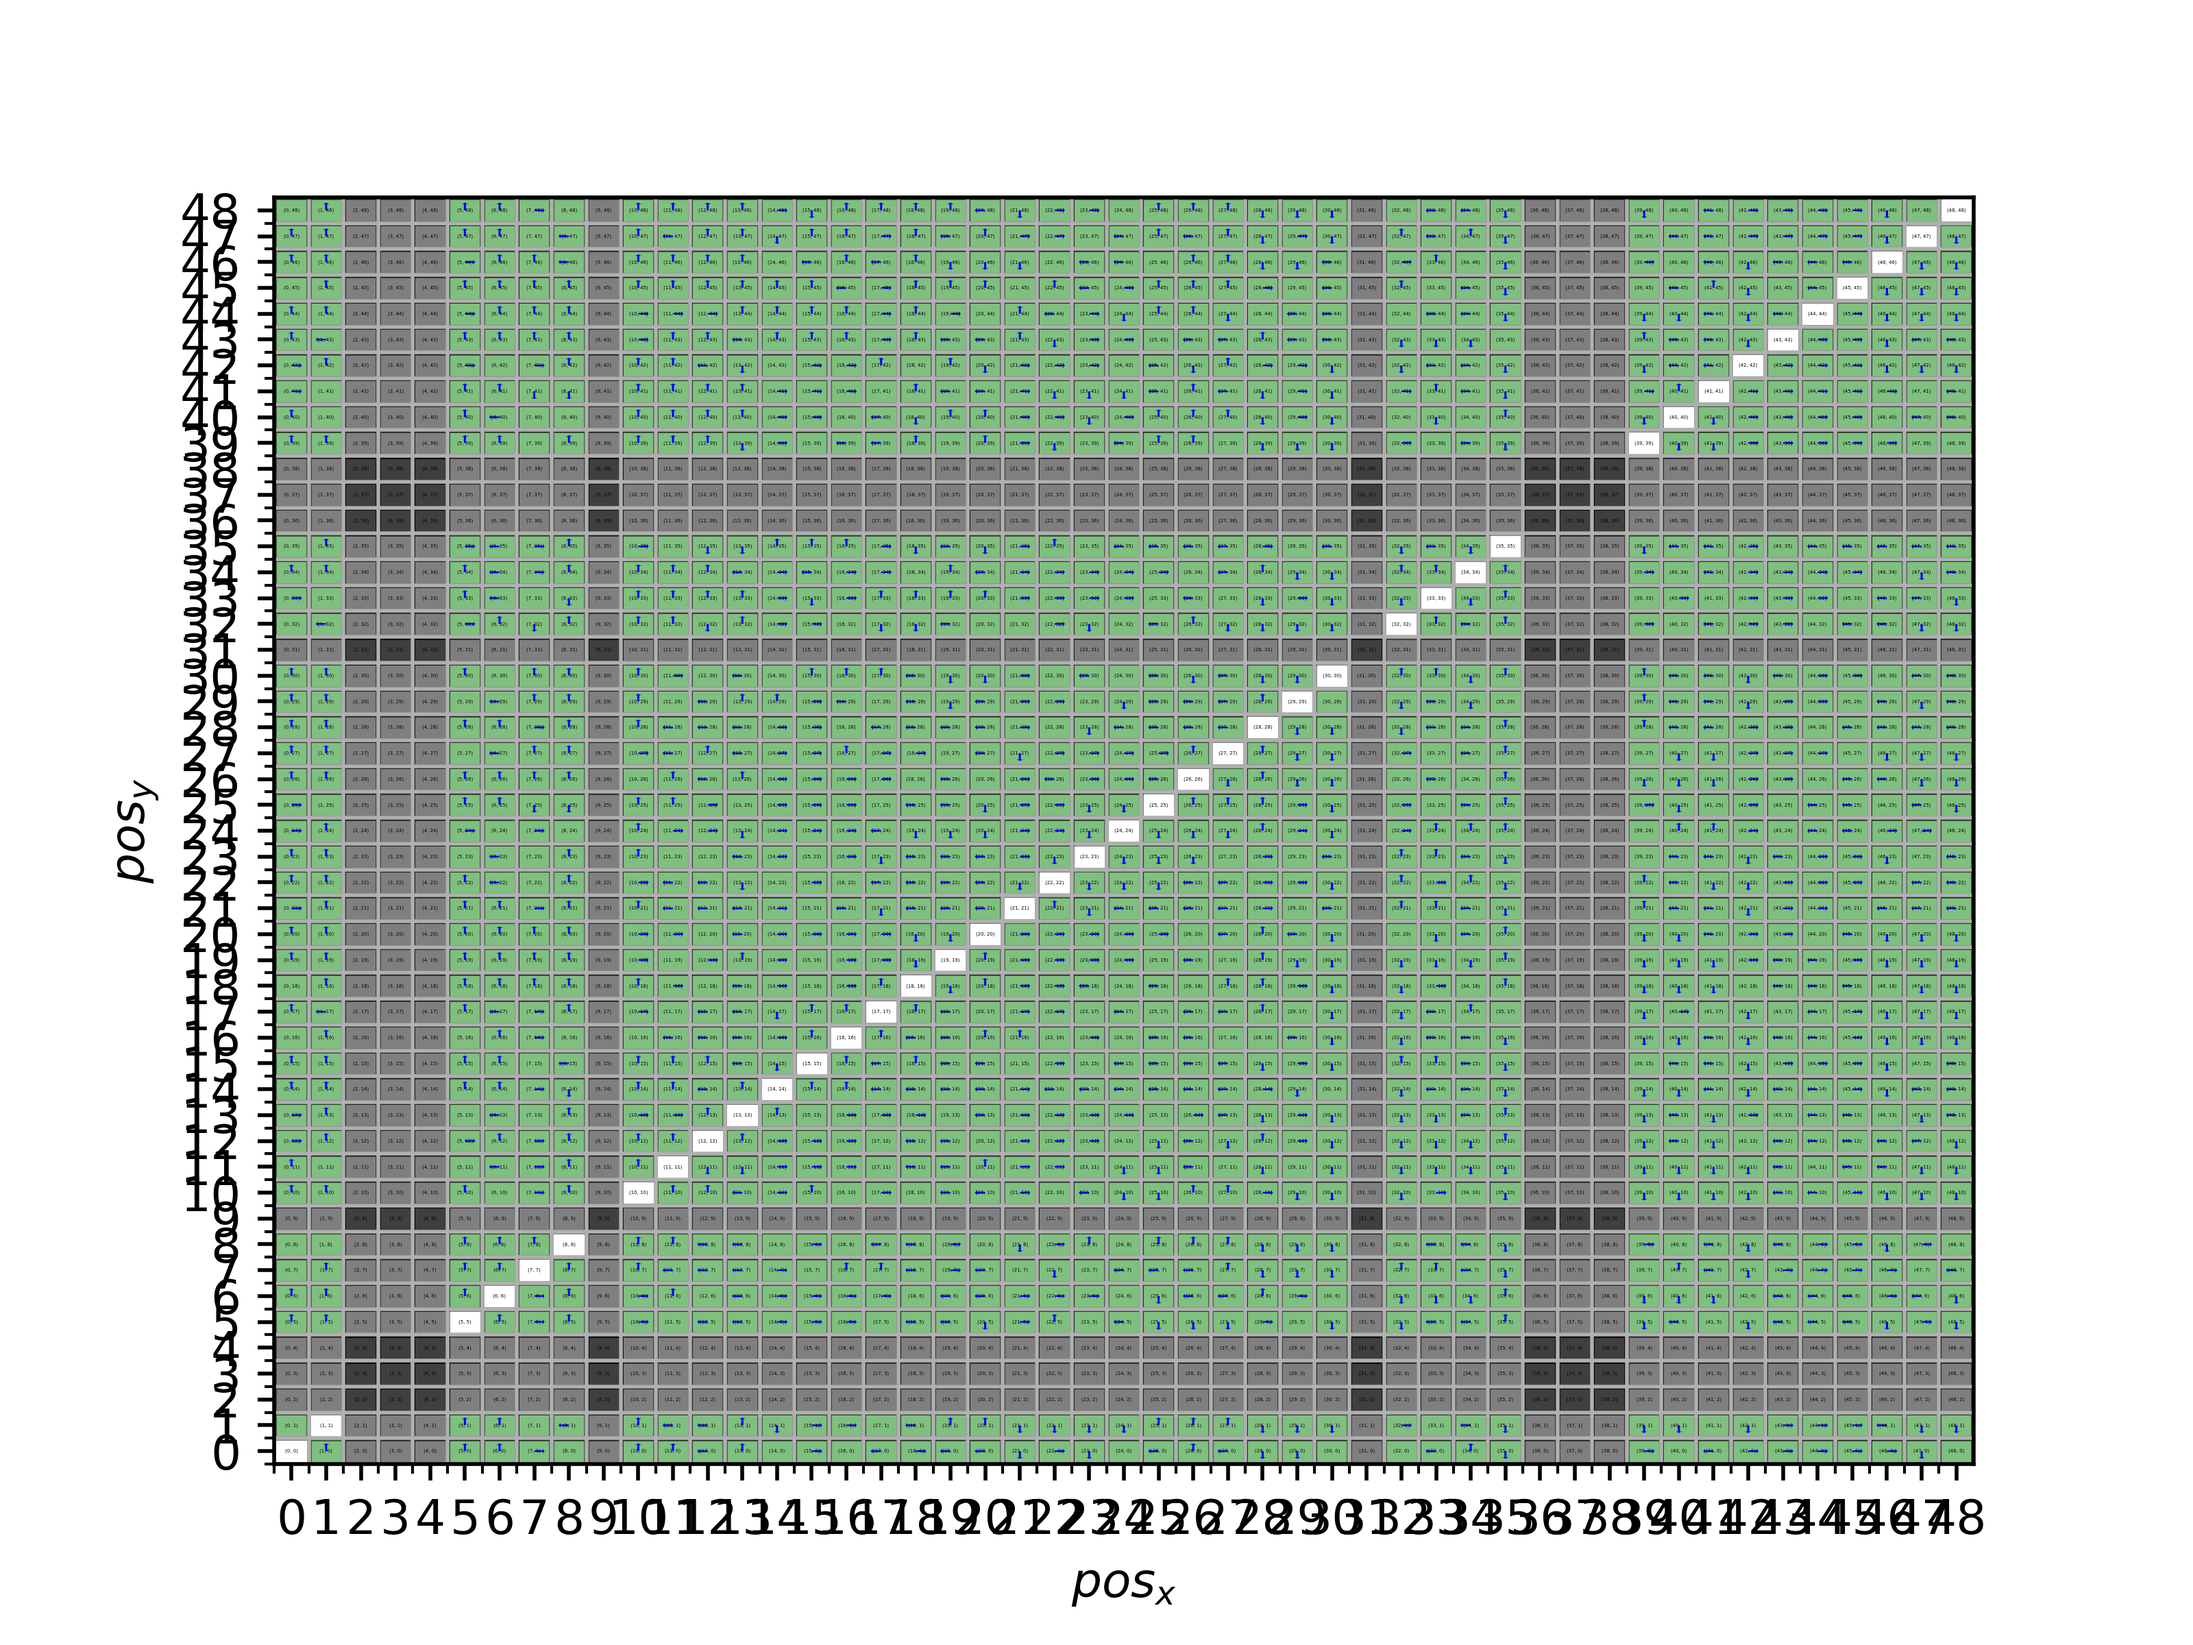
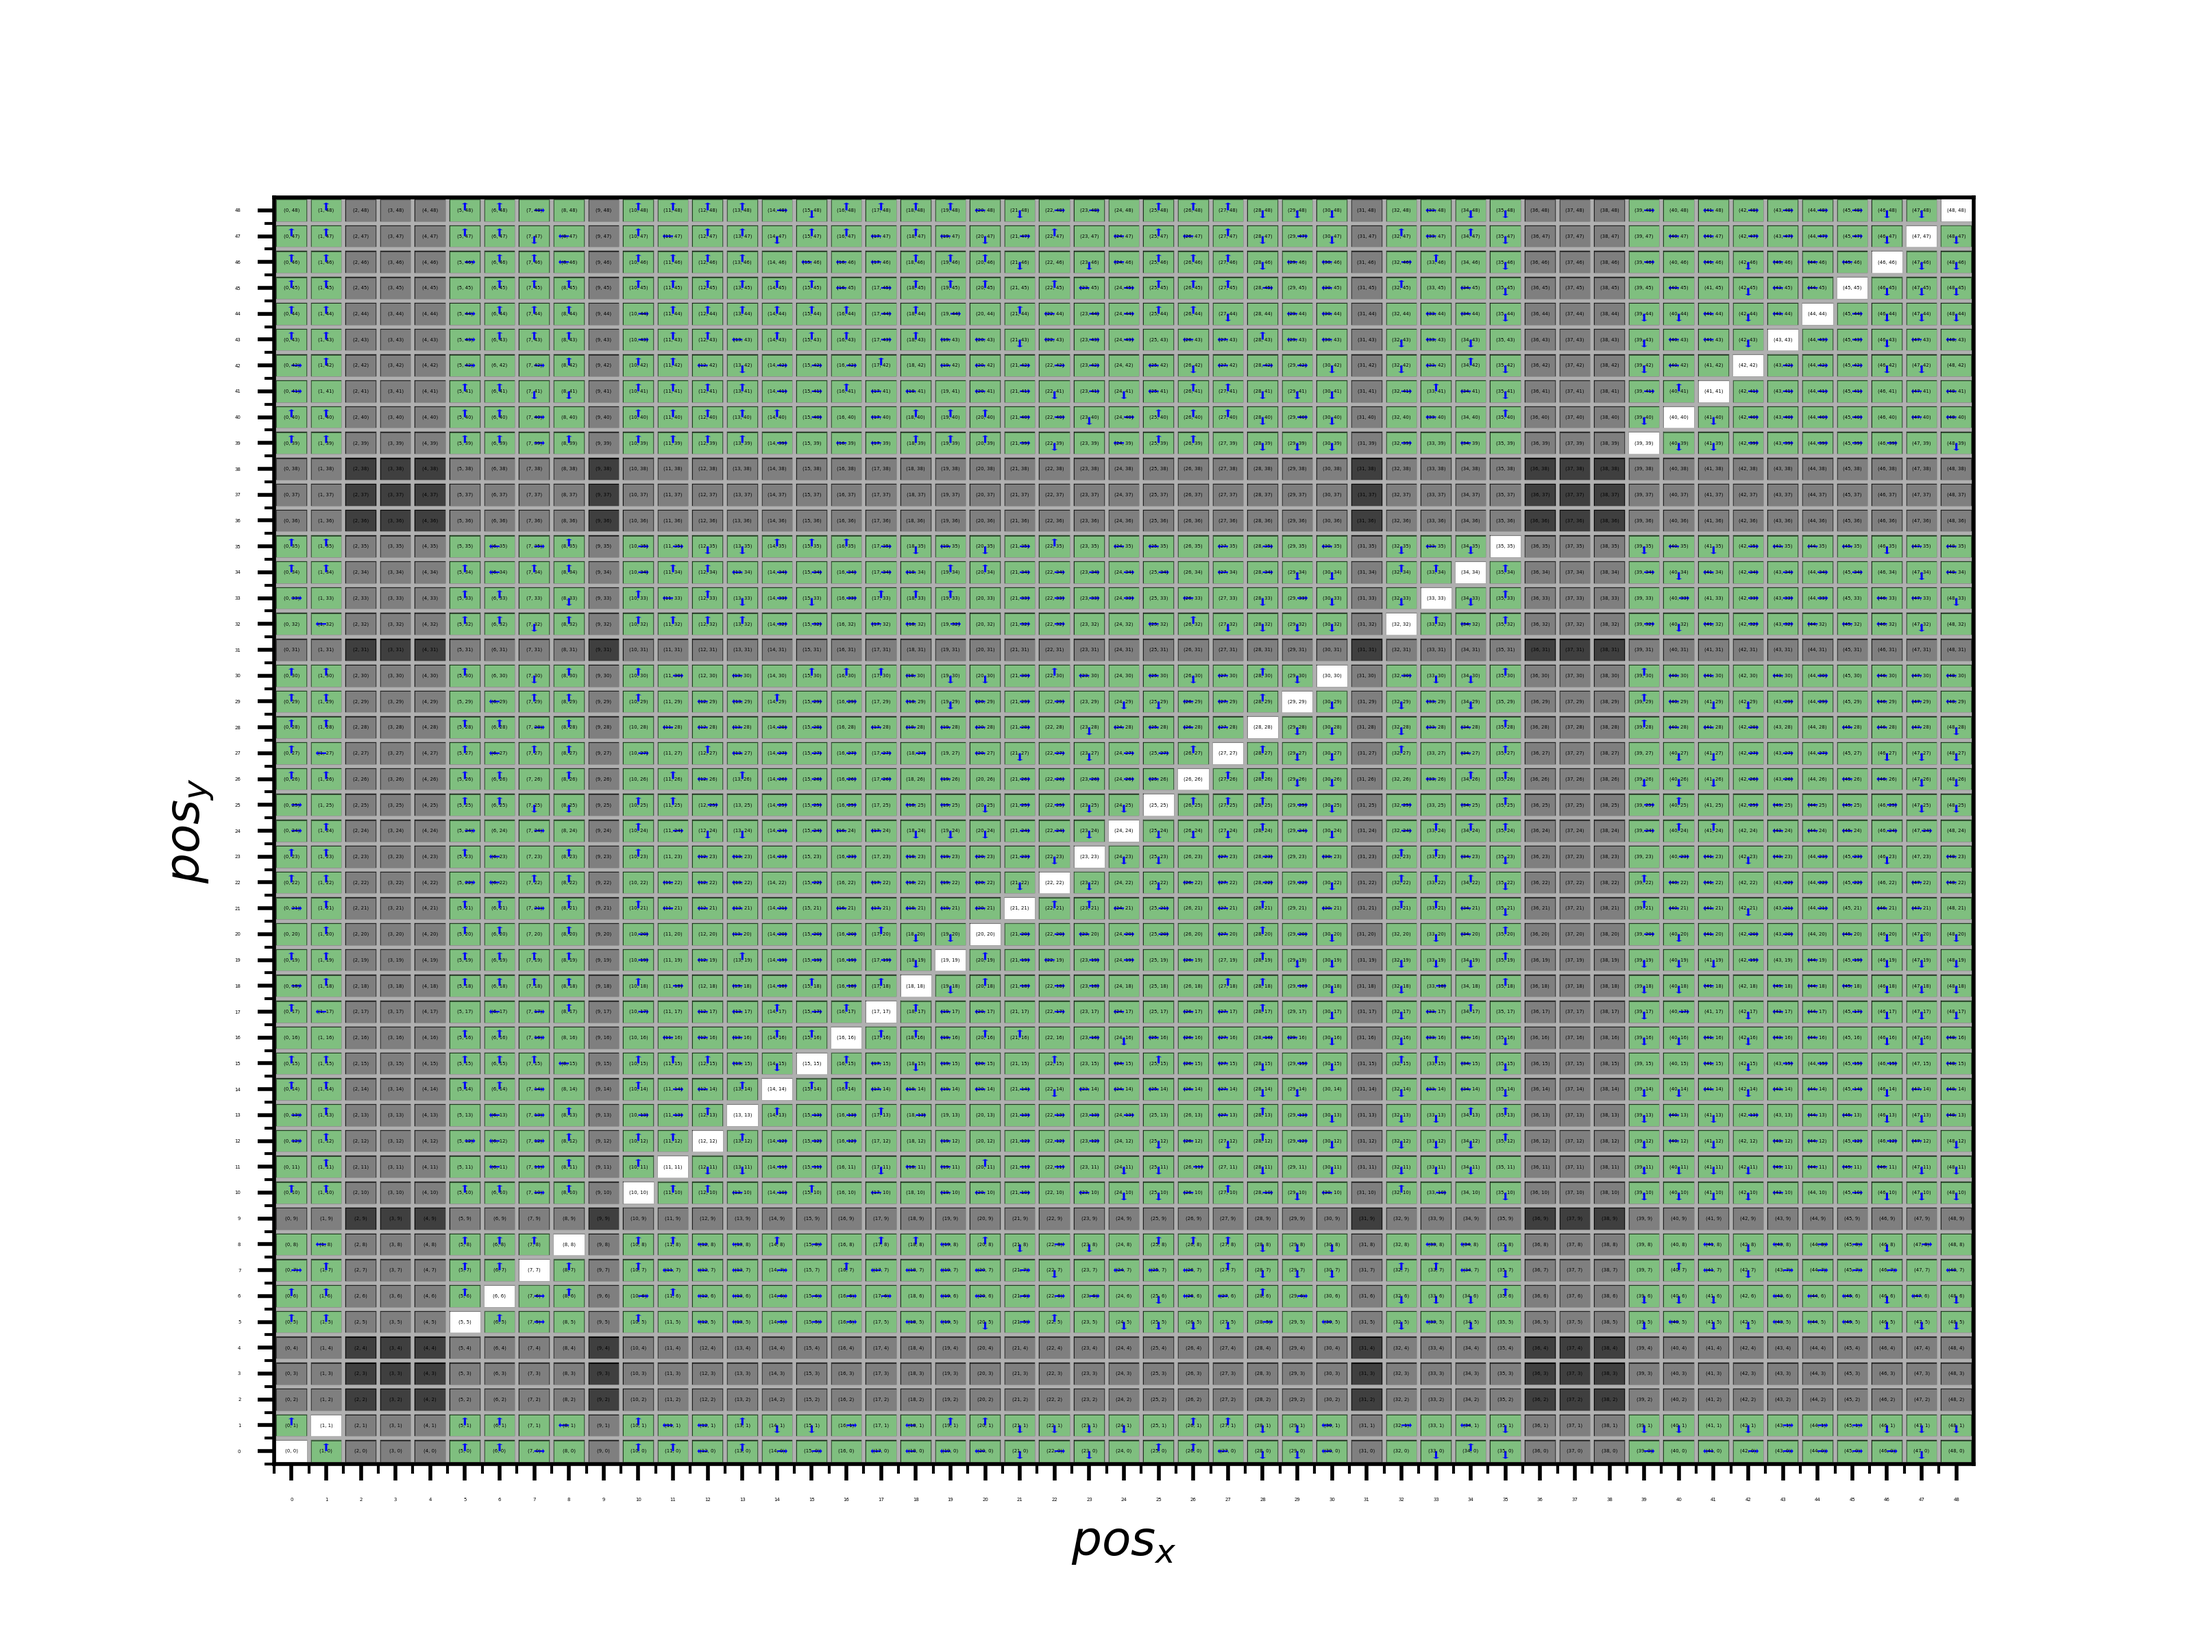
added state value and action value code and plots for visualization purporses.

Changed region(s): [[0.0312, 0.125, 0.125, 0.9062], [0.125, 0.9062, 0.9062, 0.9688]]

diff --git a/src/main.py b/src/main.py
@@ -144,7 +144,7 @@ class plotterClass():
         :rtype: int
         """
         fontsize_dict = {
-            '9': 12,
+            '9': 10,
             '16': 6,
             '25': 3,
             '36': 2,
